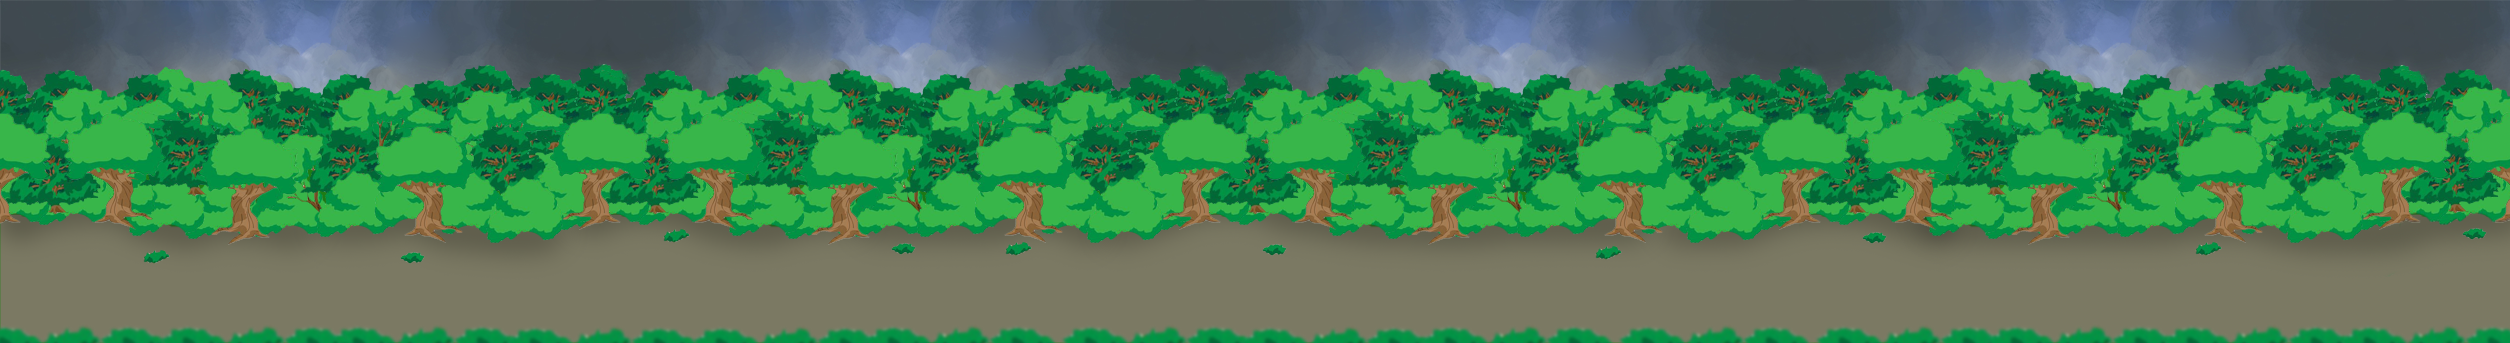
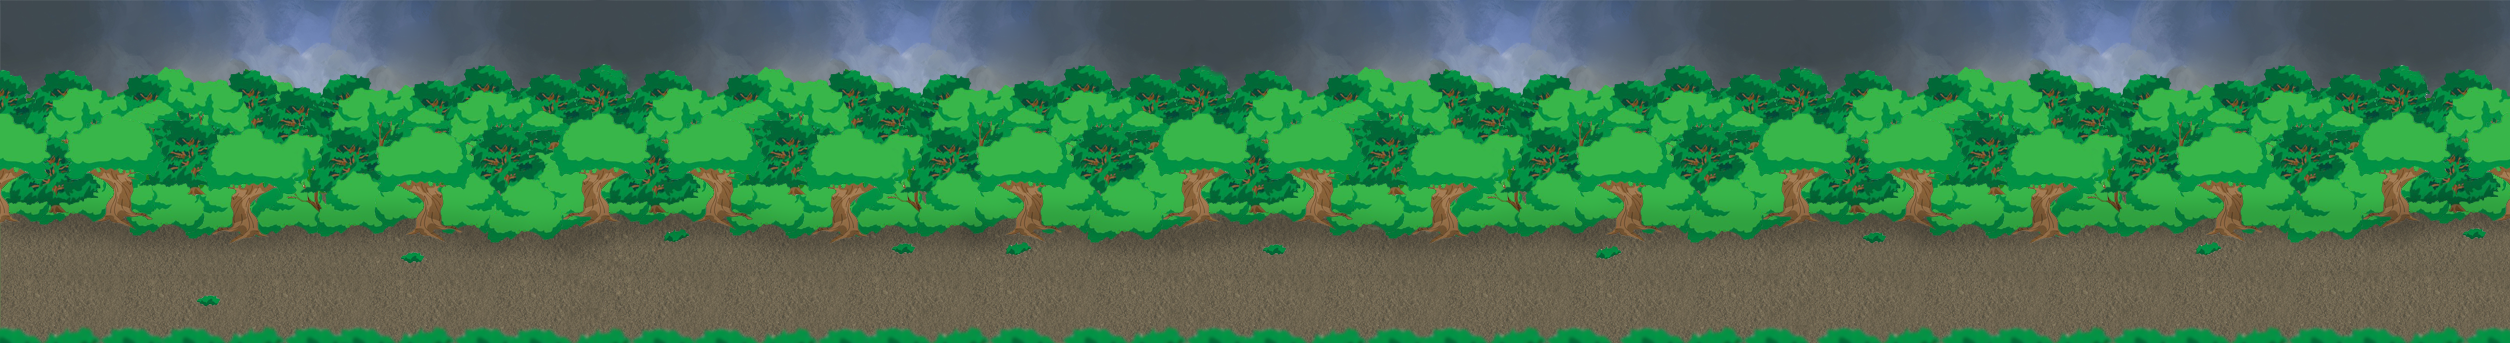
Add Town class
- Add Town class.
- Delete some excess block's of code in view.cpp.
- Change background.

Changed region(s): [[0.0, 0.6122, 1.0, 0.9913], [0.9323, 0.5831, 1.0, 0.6706]]

diff --git a/BOTT/view.cpp b/BOTT/view.cpp
@@ -1,5 +1,7 @@
 #include "view.h"
 #include "gamemenuhandler.h"
+#include "town.h"
+#include "Military/army.h"
 #include <QResizeEvent>
 #include <QDebug>
 #include <QTimer>
@@ -9,20 +11,12 @@ View::View(bool bottomView, QWidget * parent) : QGraphicsView(parent)
     this->bottomView = bottomView;
 
     if(bottomView)
-    {
         lastSceneX = 1255;
-        gameMenu = NULL;
-        gameMenu_2 = new GameMenuHandler();
 
-        connect(gameMenu_2, SIGNAL(closeMenu()), this, SLOT(hideMenu()));
-    }
-    else
-    {
-        gameMenu = new GameMenuHandler();
-        gameMenu_2 = NULL;
-
-        connect(gameMenu, SIGNAL(closeMenu()), this, SLOT(hideMenu()));
-    }
+    gameMenu = new GameMenuHandler();
+    connect(gameMenu, SIGNAL(closeMenu()), this, SLOT(hideMenu()));
+    town = new Town();
+    army = new Army();
 
     canMenuOpen = true;
     menuOpen = false;
@@ -39,11 +33,9 @@ View::View(bool bottomView, QWidget * parent) : QGraphicsView(parent)
 
 View::~View()
 {
-    if(bottomView)
-        delete gameMenu_2;
-    else
-        delete gameMenu;
-
+    delete gameMenu;
+    delete town;
+    delete army;
     delete inMenuTimer;
     delete pauseMenuTimer;
 }
@@ -58,11 +50,7 @@ void View::setConfiguration()
         controlKeys.insert("menu select", Qt::Key_Return);
         controlKeys.insert("exit from menu", Qt::Key_Backspace);
 
-        gameMenu_2->setPos(scene()->width() - gameMenu_2->pixmap().width(), 0);
-        gameMenu_2->setFlags(QGraphicsItem::ItemIsFocusable);
-        gameMenu_2->setVisible(false);
-        scene()->addItem(gameMenu_2);
-        gameMenu_2->addMenusToScene();
+        gameMenu->setPos(scene()->width() - gameMenu->pixmap().width(), 0);
     }
     else
     {
@@ -73,11 +61,12 @@ void View::setConfiguration()
         controlKeys.insert("exit from menu", Qt::Key_E);
 
         gameMenu->setPos(0, 0);
-        gameMenu->setFlags(QGraphicsItem::ItemIsFocusable);
-        gameMenu->setVisible(false);
-        scene()->addItem(gameMenu);
-        gameMenu->addMenusToScene();
     }
+
+    gameMenu->setFlags(QGraphicsItem::ItemIsFocusable);
+    gameMenu->setVisible(false);
+    scene()->addItem(gameMenu);
+    gameMenu->addMenusToScene();
 }
 
 bool View::isCanMenuOpen()
@@ -89,16 +78,8 @@ void View::hideMenu()
 {
     // прячем меню и переводим нужные переменные в начальные значения
 
-    if(bottomView)
-    {
-        gameMenu_2->setVisible(false);
-        gameMenu_2->hideCurrentOpenMenu();
-    }
-    if(!bottomView)
-    {
-        gameMenu->setVisible(false);
-        gameMenu->hideCurrentOpenMenu();
-    }
+    gameMenu->setVisible(false);
+    gameMenu->hideCurrentOpenMenu();
 
     canMenuOpen = false;
     menuOpen = false;
@@ -133,64 +114,32 @@ void View::resizeEvent(QResizeEvent *event)
 
 void View::keyPressEvent(QKeyEvent *event)
 {
-    if(bottomView)
+    if(canMenuOpen && (event->nativeVirtualKey() == getControlKey("menu") || event->key() == getControlKey("menu")))
     {
-        if(canMenuOpen && (event->nativeVirtualKey() == getControlKey("menu") || event->key() == getControlKey("menu")))
-        {
-            if(menuOpen)
-                return;
-
-            if(gameMenu_2->scene() != this->scene())
-                scene()->addItem(gameMenu_2);
-
-            gameMenu_2->setVisible(true);
-            gameMenu_2->setFocus();
-            gameMenu_2->showMainMenu();
-
-            inMenuTimer->start(30000);
-            menuOpen = true;
-            return;
-        }
         if(menuOpen)
-        {
-            if(event->nativeVirtualKey() == getControlKey("menu up") || event->key() == getControlKey("menu up"))
-                gameMenu_2->setCurrentItem(true);
-            if(event->nativeVirtualKey() == getControlKey("menu down") || event->key() == getControlKey("menu down"))
-                gameMenu_2->setCurrentItem(false);
-            if(event->nativeVirtualKey() == getControlKey("menu select") || event->key() == getControlKey("menu select"))
-                gameMenu_2->processSelectAction();
-            if(event->nativeVirtualKey() == getControlKey("exit from menu") || event->key() == getControlKey("exit from menu"))
-                gameMenu_2->processExitAction();
-        }
+            return;
+
+        if(gameMenu->scene() != this->scene())
+            scene()->addItem(gameMenu);
+
+        gameMenu->setVisible(true);
+        gameMenu->setFocus();
+        gameMenu->showMainMenu();
+
+        inMenuTimer->start(30000);
+        menuOpen = true;
+        return;
     }
-    else
+    if(menuOpen)
     {
-        if(canMenuOpen && (event->nativeVirtualKey() == getControlKey("menu") || event->key() == getControlKey("menu")))
-        {
-            if(menuOpen)
-                return;
-
-            if(gameMenu->scene() != this->scene())
-                scene()->addItem(gameMenu);
-
-            gameMenu->setVisible(true);
-            gameMenu->setFocus();
-            gameMenu->showMainMenu();
-            inMenuTimer->start(30000);
-            menuOpen = true;
-            return;
-        }
-        if(menuOpen)
-        {
-            if(event->nativeVirtualKey() == getControlKey("menu up") || event->key() == getControlKey("menu up"))
-                gameMenu->setCurrentItem(true);
-            if(event->nativeVirtualKey() == getControlKey("menu down") || event->key() == getControlKey("menu down"))
-                gameMenu->setCurrentItem(false);
-            if(event->nativeVirtualKey() == getControlKey("menu select") || event->key() == getControlKey("menu select"))
-                gameMenu->processSelectAction();
-            if(event->nativeVirtualKey() == getControlKey("exit from menu") || event->key() == getControlKey("exit from menu"))
-                gameMenu->processExitAction();
-        }
+        if(event->nativeVirtualKey() == getControlKey("menu up") || event->key() == getControlKey("menu up"))
+            gameMenu->setCurrentItem(true);
+        if(event->nativeVirtualKey() == getControlKey("menu down") || event->key() == getControlKey("menu down"))
+            gameMenu->setCurrentItem(false);
+        if(event->nativeVirtualKey() == getControlKey("menu select") || event->key() == getControlKey("menu select"))
+            gameMenu->processSelectAction();
+        if(event->nativeVirtualKey() == getControlKey("exit from menu") || event->key() == getControlKey("exit from menu"))
+            gameMenu->processExitAction();
     }
 }
 
@@ -231,4 +180,9 @@ bool View::isControlKey(int key)
 Qt::Key View::getControlKey(QString key)
 {
     return controlKeys[key];
+}
+
+Army *View::getArmy()
+{
+    return army;
 }

diff --git a/BOTT/view.h b/BOTT/view.h
@@ -8,6 +8,8 @@
 #include <QGraphicsView>
 #include <QMap>
 
+class Town;
+class Army;
 class GameMenuHandler;
 class QTimer;
 
@@ -16,7 +18,8 @@ class View : public QGraphicsView
     Q_OBJECT
 
     GameMenuHandler * gameMenu;
-    GameMenuHandler * gameMenu_2;
+    Town * town;
+    Army * army;
     QTimer * inMenuTimer; // Таймер следит за временем нахождения в меню
     QTimer * pauseMenuTimer; // Таймер следит за паузой между вызовом меню этого view
     bool bottomView; // Переменная, указывающая, что это нижняя сцена на виджете
@@ -33,6 +36,7 @@ public:
     bool isControlKey(quint32); // Проверка, что нажатая клавиша - клавиша управления игрока
     bool isControlKey(int); // Проверка, что нажатая клавиша - клавиша управления игрока
     Qt::Key getControlKey(QString key); // Возвращает код кнопки по ключу
+    Army * getArmy();
 
 private slots:
     void hideMenu(); // Закрывает окно меню

diff --git a/BOTT/Military/battlefield.cpp b/BOTT/Military/battlefield.cpp
@@ -7,21 +7,25 @@
 Battlefield::Battlefield()
 {
     timer = new QTimer();
-    arm1 = new Army();
-    arm2 = new Army();
     connect(timer, SIGNAL(timeout()), this, SLOT(Battle()));//каждую секунду проверяем есть ли войска рядом
     timer->start(1000);//и каждую секунду бьем противника, если он близко
 }
 
 Battlefield::~Battlefield()
 {
-    delete arm1;
-    delete arm2;
+    // армии удалять не нужно, т.к. каждый view сам удалит свою армию
+    delete timer;
 }
 
 void Battlefield::setScene(QGraphicsScene * scene)
 {
     this->scene = scene;
+}
+
+void Battlefield::setArmies(Army * army1, Army * army2)
+{
+    arm1 = army1;
+    arm2 = army2;
 }
 
 void Battlefield::Battle()

diff --git a/BOTT/town.h b/BOTT/town.h
@@ -1,0 +1,21 @@
+#ifndef TOWN_H
+#define TOWN_H
+
+#include <QObject>
+#include <QGraphicsPixmapItem>
+
+class Town : public QObject, public QGraphicsPixmapItem
+{
+    Q_OBJECT
+
+    int health;
+public:
+    Town();
+    int getHealth();
+
+public slots:
+    void damage(int );
+
+};
+
+#endif // TOWN_H

diff --git a/BOTT/town.cpp b/BOTT/town.cpp
@@ -1,0 +1,18 @@
+#include "town.h"
+
+Town::Town() : QObject()
+{
+    health = 100;
+
+    setPixmap(QPixmap(":images/images/towns/town_1.png"));
+}
+
+int Town::getHealth()
+{
+    return health;
+}
+
+void Town::damage(int damage)
+{
+    health -= damage;
+}

diff --git a/BOTT/widget.cpp b/BOTT/widget.cpp
@@ -41,6 +41,7 @@ Widget::Widget(QWidget *parent) :
 
     btf = new Battlefield();
     btf->setScene(scene);
+    btf->setArmies(view->getArmy(), view_2->getArmy());
 
     // Временные объекты сцены
     rect1 = new Rect();

diff --git a/BOTT/gameMenus/sciencemenu.cpp b/BOTT/gameMenus/sciencemenu.cpp
@@ -27,6 +27,8 @@ ScienceMenu::ScienceMenu()
 
 void ScienceMenu::processSelectAction(int currentItem)
 {
+    if(currentItem == -1)
+        return;
     if(currentItem == 0)
         emit SC_WaterWheelExplored();
     if(currentItem == 1)

diff --git a/BOTT/gameMenus/hospitalmenu.cpp b/BOTT/gameMenus/hospitalmenu.cpp
@@ -18,6 +18,8 @@ HospitalMenu::HospitalMenu()
 
 void HospitalMenu::processSelectAction(int currentItem)
 {
+    if(currentItem == -1)
+        return;
     if(currentItem == 0)
         emit H_EnterQuarantine();
     if(currentItem == 1)

diff --git a/BOTT/gameMenus/workshopmenu.cpp b/BOTT/gameMenus/workshopmenu.cpp
@@ -27,6 +27,8 @@ WorkshopMenu::WorkshopMenu()
 
 void WorkshopMenu::processSelectAction(int currentItem)
 {
+    if(currentItem == -1)
+        return;
     if(currentItem == 0)
         emit W_MakeGun();
     if(currentItem == 1)

diff --git a/BOTT/gameMenus/mainmenu.cpp b/BOTT/gameMenus/mainmenu.cpp
@@ -27,6 +27,9 @@ MainMenu::MainMenu()
 
 void MainMenu::processSelectAction(int currentItem)
 {
+    if(currentItem == -1)
+        return;
+
     parent->hideCurrentOpenMenu();
 
     if(currentItem == 0)

diff --git a/BOTT/gameMenus/minemenu.cpp b/BOTT/gameMenus/minemenu.cpp
@@ -14,6 +14,8 @@ MineMenu::MineMenu()
 
 void MineMenu::processSelectAction(int currentItem)
 {
+    if(currentItem == -1)
+        return;
     if(currentItem == 0)
         emit M_LevelUp();
 }

diff --git a/BOTT/Military/battlefield.h b/BOTT/Military/battlefield.h
@@ -19,6 +19,7 @@ public:
     Battlefield();
     ~Battlefield();
     void setScene(QGraphicsScene *);
+    void setArmies(Army * , Army * );
 
 public slots:
     void Battle();
